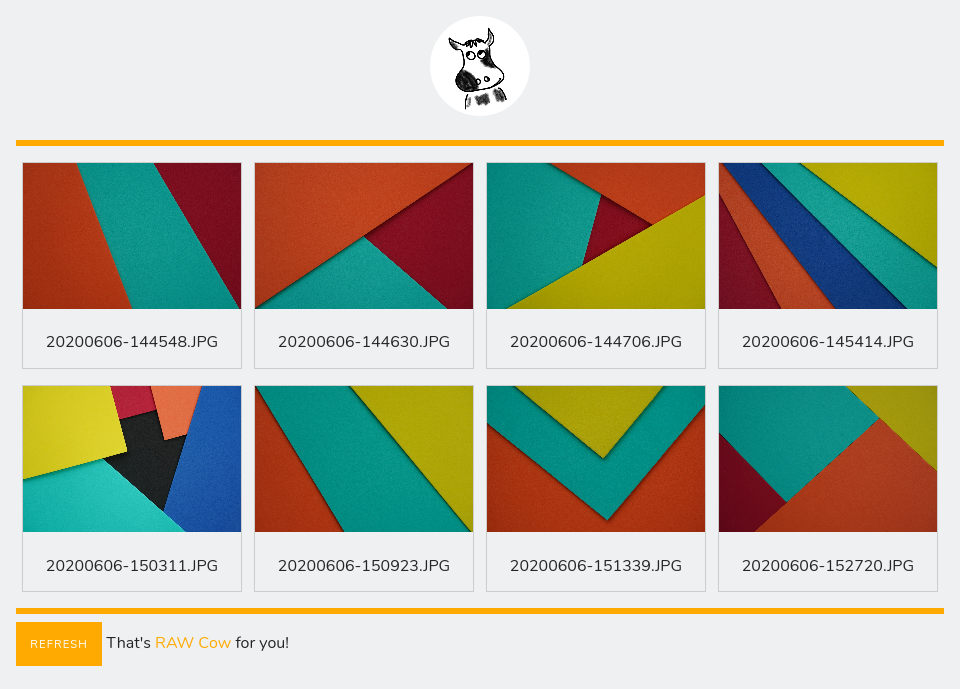
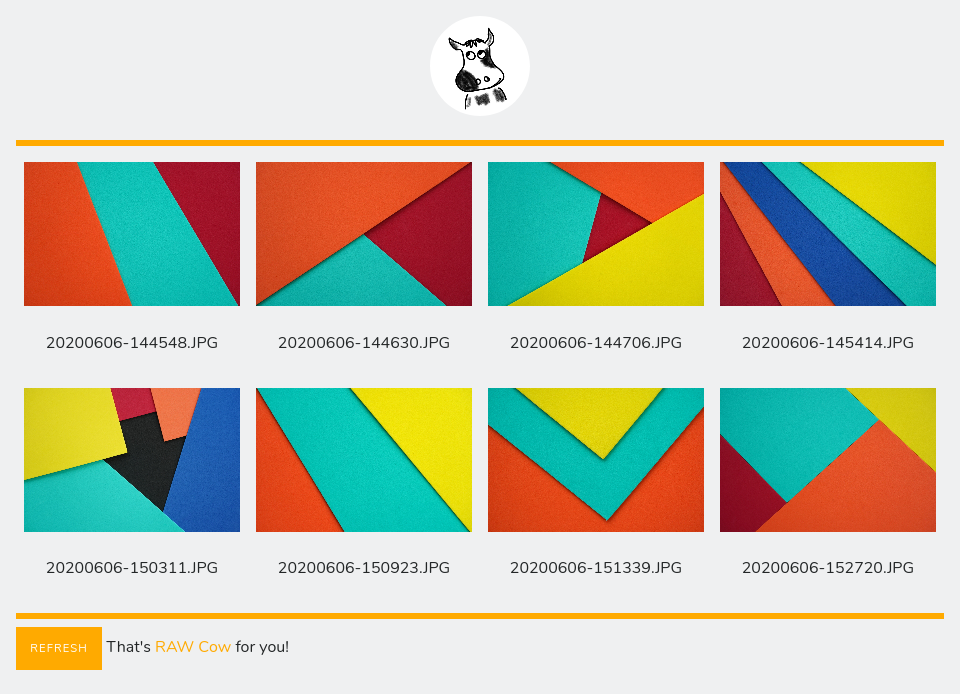
Various improvements
Remove $file_ext, better image scaling via CSS

diff --git a/index.php b/index.php
@@ -2,7 +2,6 @@
 error_reporting(E_ERROR);
 include('config.php');
 ?>
-
 <!DOCTYPE html>
 <html>
     <head>
@@ -21,47 +20,34 @@ include('config.php');
 	     margin-right: auto;
 	     margin-bottom: 1.5em;
 	 }
-	 
-	 div.gallery {
-	     border: 1px solid #ccc;
-	 }
-	 
-	 div.gallery:hover {
-	     border: 1px solid #777;
-	 }
-	 
 	 div.gallery img {
-	     width: 100%;
-	     height: auto;
+	     width:100%;
+	     height:9em;
+	     object-fit:scale-down;
 	 }
 	 div.desc {
-	     padding: 5px;
+	     padding: 0.5em;
 	     text-align: center;
 	 }
-	 
 	 * {
 	     box-sizing: border-box;
 	 }
-
 	 .responsive {
 	     padding: 0 6px;
 	     float: left;
 	     width: 24.99999%;
 	 }
-
 	 @media only screen and (max-width: 800px) {
 	     .responsive {
 		 width: 49.99999%;
 		 margin: 6px 0;
 	     }
 	 }
-
 	 @media only screen and (max-width: 500px) {
 	     .responsive {
 		 width: 100%;
 	     }
 	 }
-
 	 .clearfix:after {
 	     content: "";
 	     display: table;
@@ -78,8 +64,8 @@ include('config.php');
 
 	    <?php
 	    // FUNCTIONS ---
-	    function extract_preview_jpeg($work_dir, $prev_dir, $file_ext) {
-		shell_exec('exiftool -b -PreviewImage -w .JPG -ext '.$file_ext.' -r '.$work_dir);
+	    function extract_preview_jpeg($work_dir, $prev_dir) {
+		shell_exec('exiftool -b -PreviewImage -w .JPG -r '.$work_dir);
 		$files = glob($work_dir.'*.JPG');
 		foreach($files as $file)
 		{
@@ -108,7 +94,7 @@ include('config.php');
 	    if (!file_exists($prev_dir))
 	    {
 		shell_exec('mkdir -p '.$prev_dir);
-		extract_preview_jpeg($work_dir, $prev_dir, $file_ext);
+		extract_preview_jpeg($work_dir, $prev_dir);
 		if ($enable_auto_level) {
 		    auto_level($prev_dir);
 		}
@@ -119,7 +105,7 @@ include('config.php');
 		echo '<div class="responsive">';
 		echo '<div class="gallery">';
 		echo '<a target="_blank" href="'.$filename.'" data-featherlight="image">';
-		echo '<img src="'.$filename.'" alt="'.$filename.'" width="600">';
+		echo '<img src="'.$filename.'" alt="'.$filename.'">';
 		echo '</a>';
 		echo '<div class="desc">'.basename($filename).'</div>';
 		echo '</div>';
@@ -136,7 +122,7 @@ include('config.php');
 	    if(isset($_POST["refresh"])) {
 		shell_exec('rm -rf '.$prev_dir);
 		shell_exec('mkdir -p '.$prev_dir);
-		extract_preview_jpeg($work_dir, $prev_dir, $file_ext);
+		extract_preview_jpeg($work_dir, $prev_dir);
 		if ($enable_auto_level) {
 		    auto_level($prev_dir);
 		}

diff --git a/view.php b/view.php
@@ -21,47 +21,34 @@ include('config.php');
 	     margin-right: auto;
 	     margin-bottom: 1.5em;
 	 }
-	 
-	 div.gallery {
-	     border: 1px solid #ccc;
-	 }
-	 
-	 div.gallery:hover {
-	     border: 1px solid #777;
-	 }
-	 
 	 div.gallery img {
-	     width: 100%;
-	     height: auto;
+	     width:100%;
+	     height:9em;
+	     object-fit:scale-down;
 	 }
 	 div.desc {
-	     padding: 5px;
+	     padding: 0.5em;
 	     text-align: center;
 	 }
-	 
 	 * {
 	     box-sizing: border-box;
 	 }
-
 	 .responsive {
 	     padding: 0 6px;
 	     float: left;
 	     width: 24.99999%;
 	 }
-
 	 @media only screen and (max-width: 800px) {
 	     .responsive {
 		 width: 49.99999%;
 		 margin: 6px 0;
 	     }
 	 }
-
 	 @media only screen and (max-width: 500px) {
 	     .responsive {
 		 width: 100%;
 	     }
 	 }
-
 	 .clearfix:after {
 	     content: "";
 	     display: table;
@@ -91,7 +78,7 @@ include('config.php');
 		echo '<div class="responsive">';
 		echo '<div class="gallery">';
 		echo '<a target="_blank" href="'.$filename.'" data-featherlight="image">';
-		echo '<img src="'.$filename.'" alt="'.$filename.'" width="600">';
+		echo '<img src="'.$filename.'" alt="'.$filename.'">';
 		echo '</a>';
 		echo '<div class="desc">'.basename($filename).'</div>';
 		echo '</div>';

diff --git a/config.php b/config.php
@@ -3,8 +3,6 @@
 $work_dir = "RAW/";
 // Directory for JPEG preview files
 $prev_dir = "JPG/";
-// RAW file extension
-$file_ext = "ARW";
 // Enable auto-level
 $enable_auto_level = false;
 ?>
